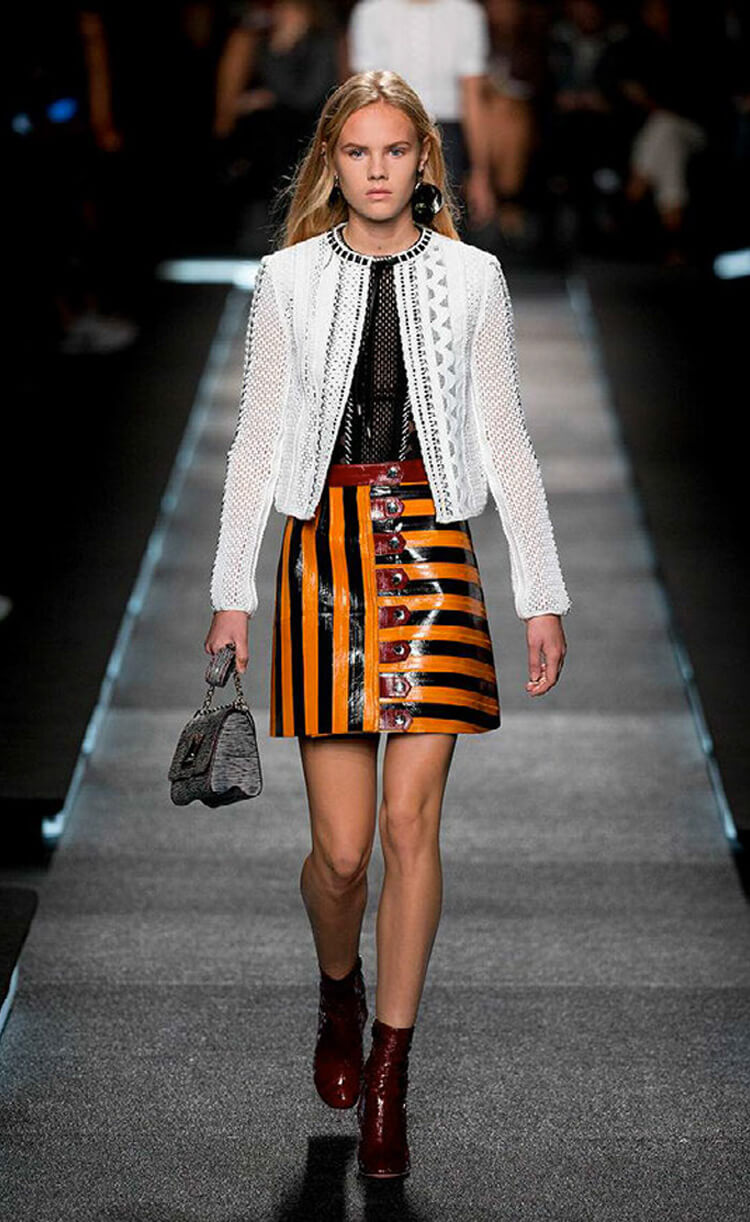
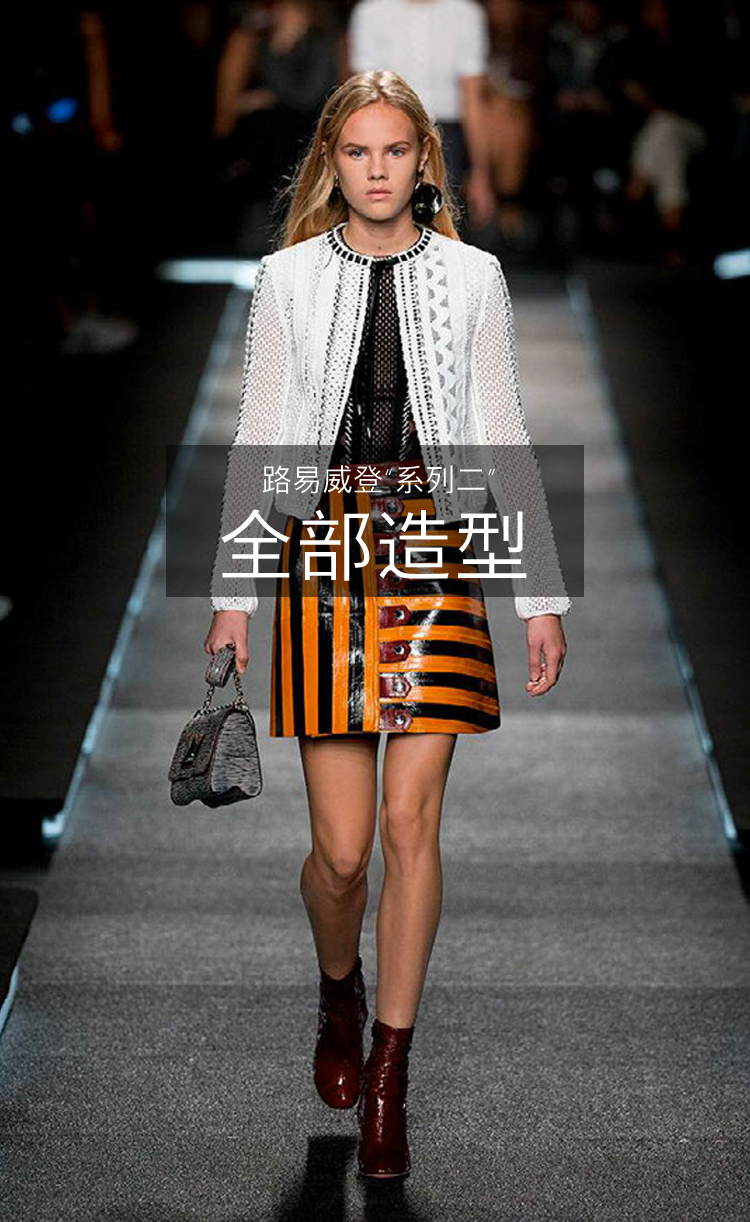
update

Changed region(s): [[0.2147, 0.3421, 0.7973, 0.4975]]

diff --git a/saosao.html b/saosao.html
@@ -1,0 +1,48 @@
+<!DOCTYPE html> 
+<html>
+<head>
+	<meta charset="UTF-8">
+	<title>路易威登“系列二”线上展览&nbsp;点击进入&nbsp;体验创新数字之旅</title>
+	<meta name="apple-mobile-web-app-status-bar-style" content="black">
+	<meta name="apple-mobile-web-app-capable" content="yes">
+	<meta name="viewport" content="width=device-width, initial-scale=1.0, maximum-scale=1.0, user-scalable=no" />
+	<link rel="stylesheet" href="css/jquery-mobile.css" /> 
+	<script src="js/lib/jquery/jquery.min.js"></script>
+	<script src="js/lib/jquery/jquery.mobile-1.4.5.js"></script>
+	<script src="js/lib/swipe/jquery.touchSwipe.min.js"></script>
+	<link rel="stylesheet" type="text/css" href="css/style.css"/>
+	<style type="text/css">
+		html,body{
+			width: 100%;
+			height: 100%;
+			position: relative;
+			overflow: hidden;
+		}
+		.saosao{
+			width:100%;
+			display: inline-block;
+		}
+
+	</style>
+	<script type="text/javascript" src="js/script.js"></script>
+</head>
+
+<body>
+
+	<div class="saosao">
+		<img src="saosao.jpg" width="100%"/>
+	</div>	
+
+	
+<script>
+var _hmt = _hmt || [];
+(function() {
+  var hm = document.createElement("script");
+  hm.src = "//hm.baidu.com/hm.js?df4334f8d06255e9fd82b07d21c47e3c";
+  var s = document.getElementsByTagName("script")[0]; 
+  s.parentNode.insertBefore(hm, s);
+})();
+_hmt.push(['_trackPageview', "collection.php"]);
+</script>
+</body>
+</html>

diff --git a/collection.php b/collection.php
@@ -32,13 +32,13 @@
 		<?php include'menu.php';?>
 
 		<div id="introduction-collection">
-			<h1>全部造型</h1>
+			
 		</div>
-		<div class="btn-home">
+		<!-- <div class="btn-home">
 			<span data-transition="slideup">
 				<img src="images/btn-home2.png" class="img-btn">
 			</span>
-		</div>
+		</div> -->
 
 		<script>
 			$(function() {      
